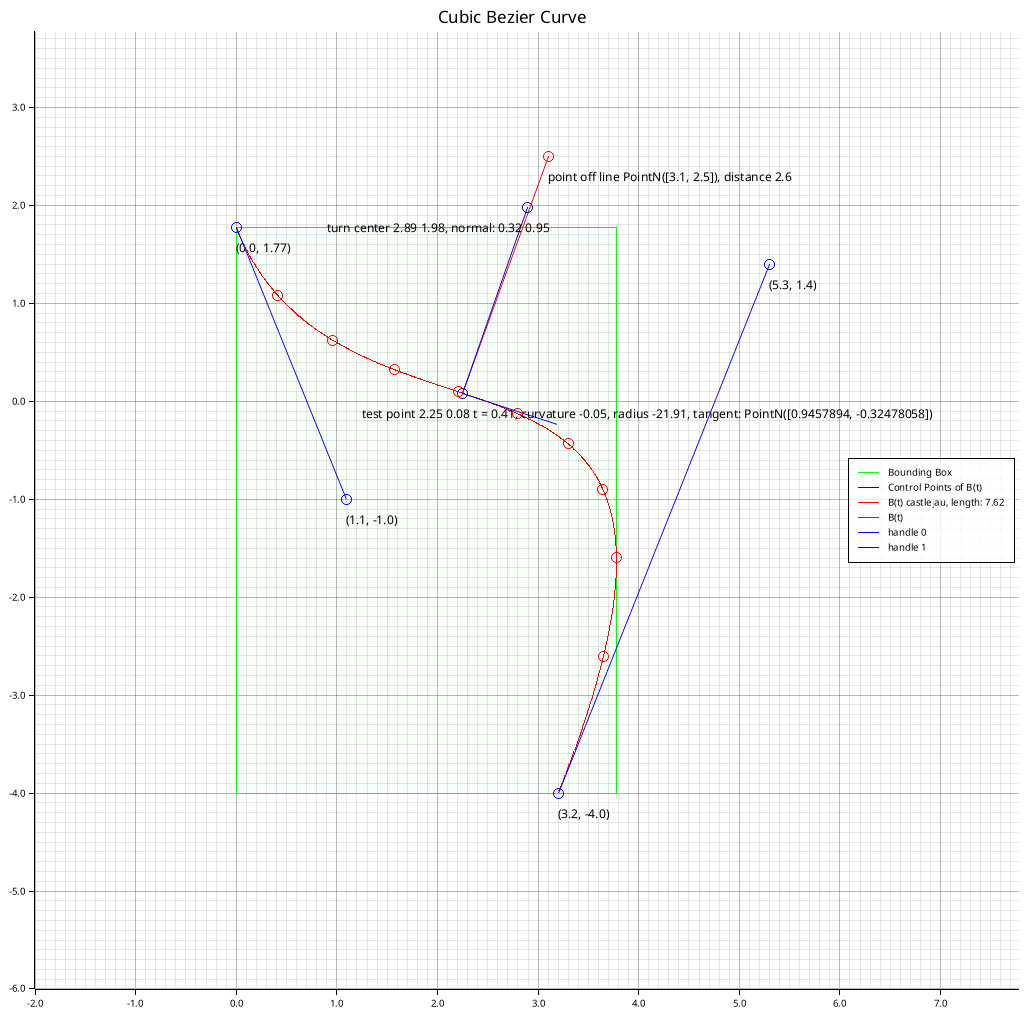
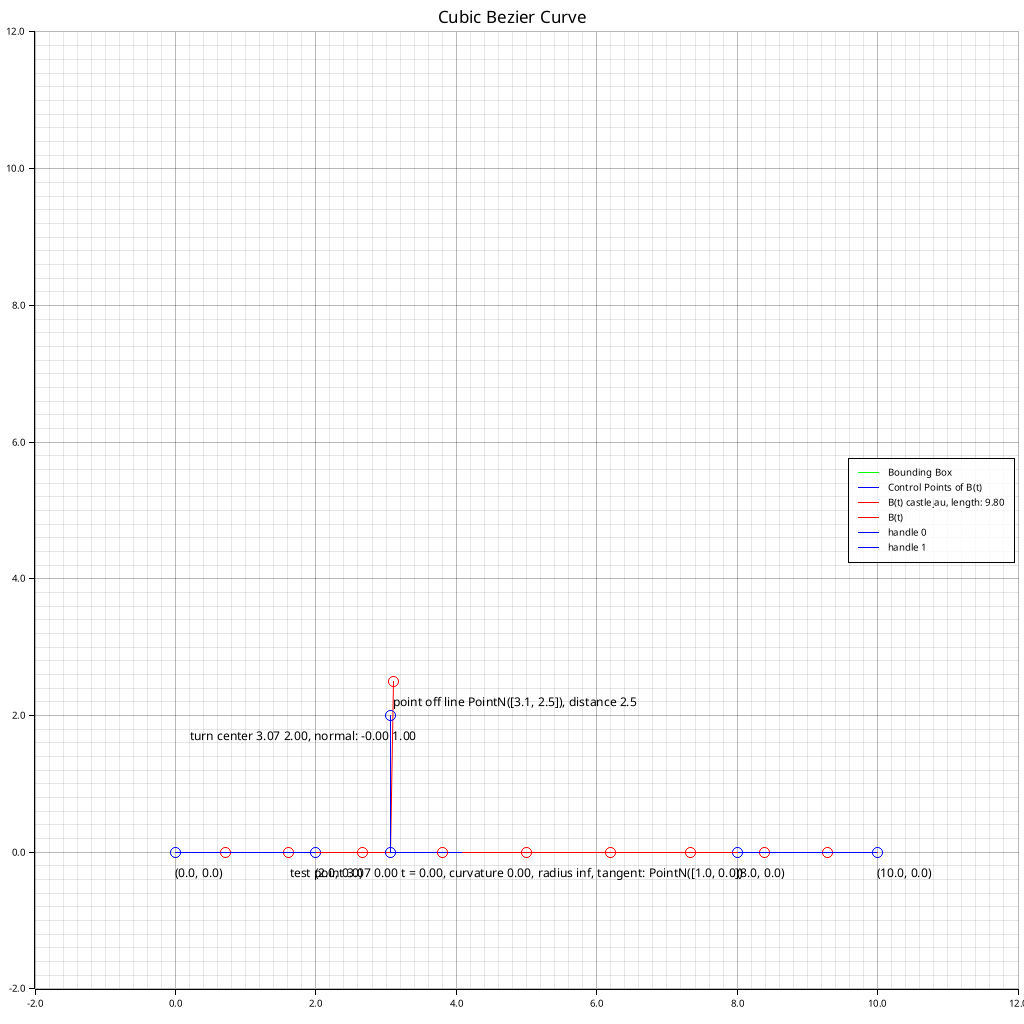
improved finding the closest point which was returning bad t values on straight lines

Changed region(s): [[0.0, 0.0312, 1.0, 0.9688]]

diff --git a/src/cubic_bezier.rs b/src/cubic_bezier.rs
@@ -266,14 +266,14 @@ where
         closest_point_on_curve: &mut P,
         tmin: &mut NativeFloat,
         dmin: &mut NativeFloat,
-        candidate: &P,
+        candidate_on_curve: &P,
         t: NativeFloat,
         point: &P,
     ) {
-        let distance = (*candidate - *point).squared_length();
-        if distance < *dmin {
+        let distance = (*candidate_on_curve - *point).squared_length();
+        if distance <= *dmin {
             *tmin = t;
-            *closest_point_on_curve = *candidate;
+            *closest_point_on_curve = *candidate_on_curve;
             *dmin = distance;
         }
     }
@@ -284,34 +284,39 @@ where
     /// 1. coarse search over the whole curve
     /// 2. fine search around the minimum yielded by the coarse search
     pub fn closest_to_point(&self, point: P) -> (P, NativeFloat, NativeFloat) {
-        let nsteps: usize = 64;
+        let nsteps: usize = 32;
         let mut tmin: NativeFloat = 0.5;
-        let mut dmin: NativeFloat = (point - self.start).squared_length();
+        let mut dmin: NativeFloat = 1e6; // 2.0 * (point - self.start).squared_length();
         let mut closest_point_on_curve = self.start;
 
         // 1. coarse pass
-        for i in 0..nsteps {
-            // calculate next step value
-            let t: NativeFloat =
-                i as NativeFloat * 1.0 as NativeFloat / (nsteps as NativeFloat);
-            // calculate distance to candidate
-            let candidate = self.eval(t);
-            Self::capture_closest(
-                &mut closest_point_on_curve,
-                &mut tmin,
-                &mut dmin,
-                &candidate,
-                t,
-                &point,
-            );
+        {
+            let step = 1.0 / nsteps as NativeFloat;
+            for i in 0..nsteps {
+                // calculate next step value
+                let t = i as NativeFloat * step;
+                // calculate distance to candidate
+                let candidate = self.eval(t);
+                Self::capture_closest(
+                    &mut closest_point_on_curve,
+                    &mut tmin,
+                    &mut dmin,
+                    &candidate,
+                    t,
+                    &point,
+                );
+            }
         }
+
         // 2. fine pass
+        let fine_step = 1.0 / (nsteps * nsteps) as NativeFloat;
+        let half_range = nsteps as NativeFloat * fine_step / 2.0;
+        let tmin_coarse = tmin;
         for i in 0..nsteps {
             // calculate next step value ( a 64th of a 64th from first step)
-            let t: NativeFloat =
-                i as NativeFloat * 1.0 as NativeFloat / ((nsteps * nsteps) as NativeFloat);
+            let t = tmin_coarse + i as NativeFloat * fine_step - half_range;
             // calculate distance to candidate centered around tmin from before
-            let candidate: P = self.eval(tmin + t - t * (nsteps as NativeFloat / 2.0));
+            let candidate: P = self.eval(t);
             Self::capture_closest(
                 &mut closest_point_on_curve,
                 &mut tmin,
@@ -519,8 +524,10 @@ where
 
 #[cfg(test)]
 mod tests {
+    extern crate std;
     use super::PointN;
     use super::*;
+    use std::println;
     use core::f64::consts::PI;
     #[test]
     fn circle_approximation_error() {
@@ -782,6 +789,26 @@ mod tests {
             for (idx, axis) in p.into_iter().enumerate() {
                 assert!((axis >= (bounds[idx].0 - max_err)) && (axis <= (bounds[idx].1 + max_err)))
             }
+        }
+    }
+
+    #[test]
+    fn closest_to_point() {
+        let bezier = CubicBezier::<_, 2> {
+            start: PointN::new([0.0, 0.0]),
+            ctrl1: PointN::new([1.0, 0.0]),
+            ctrl2: PointN::new([9.0, 0.0]),
+            end: PointN::new([10.0, 0.0]),
+        };
+
+        for desired_len in [0.0, 0.1, 0.2, 0.3, 0.5, 0.7, 1.0] {
+            let (found_len, parametric_t) = bezier.desired_len_to_parametric_t(desired_len, None);
+            let expected_distance = 2.0;
+            let point_off_line = PointN::new([desired_len, expected_distance]);
+            let (closest_point_on_line, t, distance) = bezier.closest_to_point(point_off_line);
+            println!("{desired_len} {parametric_t} -> {closest_point_on_line:?} {t} {distance}");
+            assert!((t - parametric_t).abs() < 0.01, "t {t}, expected {parametric_t}");
+            assert!((distance - expected_distance).abs() < 0.001, "distance {distance}, expected {expected_distance}");
         }
     }
 

diff --git a/examples/plotters_cubic_bezier.rs b/examples/plotters_cubic_bezier.rs
@@ -43,8 +43,10 @@ impl Curve {
 
 fn main() -> Result<(), Box<dyn std::error::Error>> {
     // control points for the cubic bezier curve
-    let cpoints = [(0.0, 1.77), (1.1, -1.0), (5.3, 1.4), (3.2, -4.0)];
+    // let cpoints = [(0.0, 1.77), (1.1, -1.0), (5.3, 1.4), (3.2, -4.0)];
     // let cpoints = [(0.0, 0.0), (2.0, 4.0), (9.0, -1.0), (10.0, 2.0)];
+    let cpoints = [(0.0, 0.0), (2.0, 0.0), (8.0, 0.0), (10.0, 0.0)];
+    // let cpoints = [(0.0, 0.0), (4.0, 2.0), (0.0, 8.0), (0.0, 10.0)];
 
     let curve = Curve::default(&cpoints);
     let dx = curve.xmax - curve.xmin;
@@ -140,13 +142,14 @@ fn main() -> Result<(), Box<dyn std::error::Error>> {
 
     {
         let point_off_line = PointN::new([3.1, 2.5]);
+        // let point_off_line = PointN::new([2.5, 3.1]);
         let (test_point, test_t, distance) = curve.bezier.closest_to_point(point_off_line);
         /*
         let test_t = 0.32;
         let test_point = curve.bezier.eval(test_t);
         let distance = test_point.distance(&point_off_line);
         */
-        println!("test point    {test_point:?}");
+        println!("test point    {test_point:?}, t {test_t:.2}");
 
         let curvature = curve.bezier.curvature(test_t);
         let tangent = curve.bezier.tangent(test_t);
